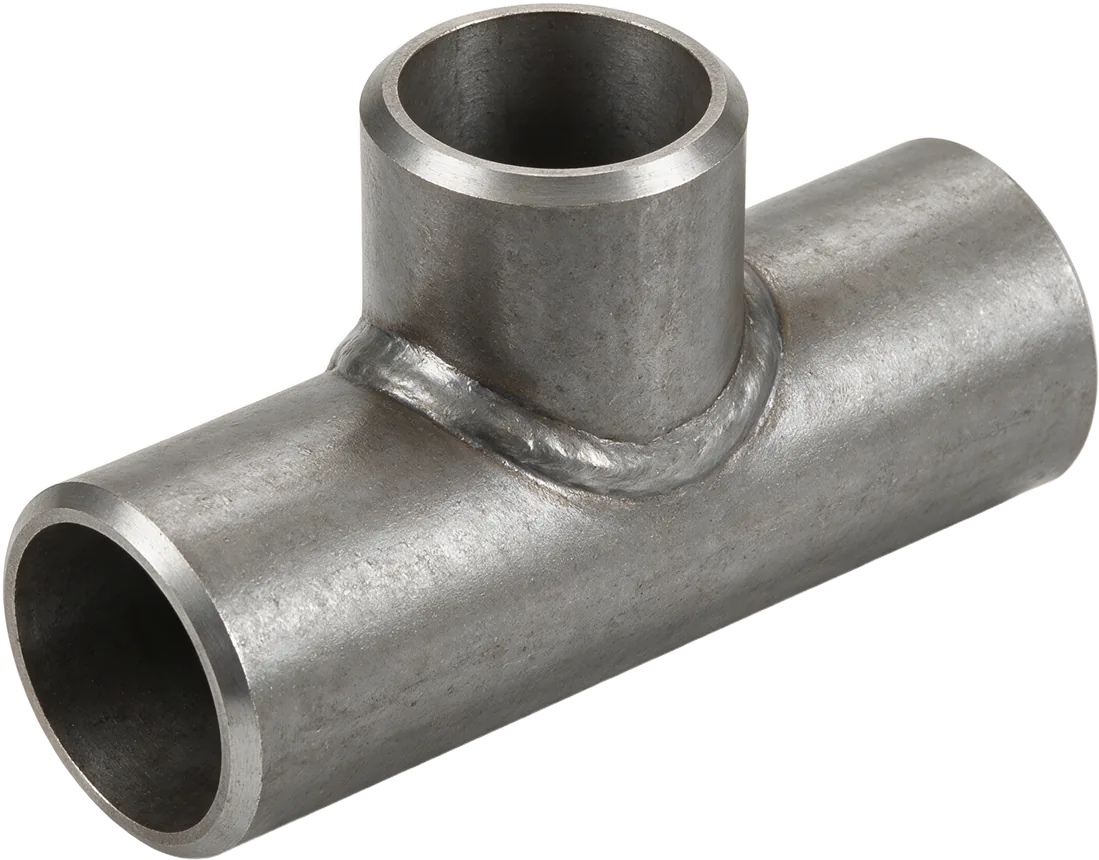
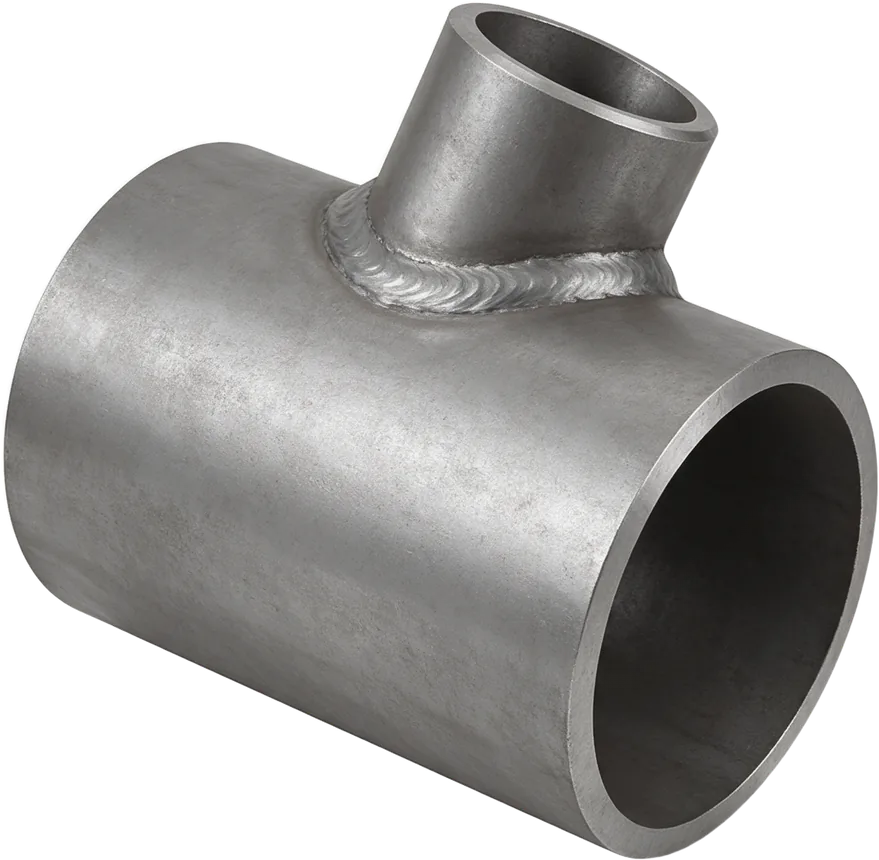
Мусорные DN в СДТ и пересъёмка сварного переходного тройника
DN. В условный проход у СДТ попадали наружный диаметр («DN 137» у днища
D137), номер исполнения («DN 06») и склейки («DN 1030»). Где известен
наружный диаметр — Ду восстановлен по сортаменту, иначе поле убрано:
пустое место честнее выдуманного прохода. Заодно вычищены следы в
описаниях. Крепёж не тронут — там в dn лежит диаметр резьбы, и это норма.

Правило чинит и формально допустимые, но неверные значения: у отвода
159×6 стоял DN 125, хотя 159 — это Ду150. Такое ловится только сверкой с
сортаментом, проверкой «есть в ряду» — нет. Для переходных изделий сверка
не применяется: там dn относится к корпусу, а outer_diameter может
описывать трубу штуцера.

Тройник. Прежний кадр читался как мелкая точёная деталь. ОСТ 34 10.764-97
идёт на Ду150…1600: корпус короткий и массивный, штуцер около трети
диаметра, приварен угловым швом. Переснято по образцу ОТК.

diff --git a/scripts/otk-fix/fix.php b/scripts/otk-fix/fix.php
@@ -267,6 +267,110 @@ foreach ( $ids as $pid ) {
 		$needs[] = [ $pid, $newslug, $norm, $od, 'стенка снята' ];
 	}
 
+	/* --- 5. мусор в условном проходе ---
+	 * В dn/dn_branch/dy/dy1 у СДТ попадали наружный диаметр («DN 137» у днища
+	 * D137), обрывки обозначения («DN 09», «DN 03») и склейки («DN 1030»).
+	 * Где известен наружный диаметр — восстанавливаем Ду по сортаменту, иначе
+	 * поле убираем: пустое место честнее выдуманного прохода.
+	 *
+	 * Крепёж не трогаем: там в dn лежит диаметр резьбы, и это не ошибка.
+	 */
+	$is_fastener = isset( $dims['thread_size'] ) || isset( $dims['washer_type'] )
+		|| ( function_exists( 'promen_product_is_fastener' ) && promen_product_is_fastener( $pid ) );
+	if ( ! $is_fastener ) {
+		static $DN_ROW = [
+			6, 8, 10, 15, 20, 25, 32, 40, 50, 65, 80, 100, 125, 150, 175, 200, 250,
+			300, 350, 400, 450, 500, 600, 700, 800, 900, 1000, 1100, 1200, 1400,
+			1600, 1800, 2000,
+		];
+		// Наружный диаметр -> условный проход. Два ряда: ГОСТ 8732/10704 и ISO
+		// (ГОСТ 17375/17376 — 21,3 / 26,9 / 33,7 …).
+		static $DN2DU = [
+			'10' => 6, '14' => 10, '18' => 15, '25' => 20, '32' => 25, '38' => 32,
+			'45' => 40, '57' => 50, '76' => 65, '89' => 80, '108' => 100, '133' => 125,
+			'159' => 150, '219' => 200, '273' => 250, '325' => 300, '377' => 350,
+			'426' => 400, '530' => 500, '630' => 600, '720' => 700, '820' => 800,
+			'920' => 900, '1020' => 1000, '1220' => 1200, '1420' => 1400, '1620' => 1600,
+			'21.3' => 15, '26.9' => 20, '33.7' => 25, '42.4' => 32, '48.3' => 40,
+			'60.3' => 50, '88.9' => 80, '114.3' => 100, '168.3' => 150, '219.1' => 200,
+			'273.1' => 250, '323.9' => 300, '355.6' => 350, '406.4' => 400, '508' => 500,
+		];
+		/*
+		 * У детали с одним проходом (нет второго торца) условный проход
+		 * однозначно следует из наружного диаметра. Тогда сортамент — источник
+		 * истины, даже если в поле лежит формально допустимое число: «Тройник
+		 * 219х9 Dy06» и «Фланец ФП DN06» получили в DN номер исполнения, а 6 —
+		 * настоящий проход из ряда, и проверкой «есть в ряду» такое не поймать.
+		 * У переходных изделий так делать нельзя: там dn относится к корпусу, а
+		 * outer_diameter может описывать трубу штуцера.
+		 */
+		$single_bore = ! isset( $dims['outer_d_branch'] ) && ! isset( $dims['dn_branch'] )
+			&& ! isset( $dims['dy1'] );
+
+		$fix_dn = static function ( $val, $od ) use ( $DN_ROW, $DN2DU, $single_bore ) {
+			$v = trim( (string) $val );
+			if ( '' === $v ) {
+				return null;                       // нечего чинить
+			}
+			$k0 = rtrim( rtrim( str_replace( ',', '.', trim( (string) $od ) ), '0' ), '.' );
+			if ( $single_bore && '' !== $k0 && isset( $DN2DU[ $k0 ] ) ) {
+				return (string) $DN2DU[ $k0 ];     // проход выводится из диаметра
+			}
+			$n = (float) str_replace( ',', '.', $v );
+			if ( in_array( (int) round( $n ), $DN_ROW, true ) && abs( $n - round( $n ) ) < 1e-6 ) {
+				return ltrim( $v, '0' ) !== '' ? (string) (int) round( $n ) : $v;
+			}
+			$k = rtrim( rtrim( str_replace( ',', '.', trim( (string) $od ) ), '0' ), '.' );
+			if ( '' !== $k && isset( $DN2DU[ $k ] ) ) {
+				return (string) $DN2DU[ $k ];      // восстановили по сортаменту
+			}
+			return false;                          // убрать
+		};
+
+		foreach ( [ [ 'dn', 'outer_diameter' ], [ 'dy', 'outer_diameter' ],
+			[ 'dn_branch', 'outer_d_branch' ], [ 'dy1', 'outer_d_branch' ] ] as $pair ) {
+			if ( ! isset( $dims[ $pair[0] ] ) ) {
+				continue;
+			}
+			$res = $fix_dn( $dims[ $pair[0] ], $dims[ $pair[1] ] ?? '' );
+			if ( null === $res || $res === $dims[ $pair[0] ] ) {
+				continue;
+			}
+			if ( false === $res ) {
+				unset( $dims[ $pair[0] ] );
+				$changed[] = 'убран мусорный ' . $pair[0];
+			} else {
+				$dims[ $pair[0] ] = $res;
+				$changed[] = 'восстановлен ' . $pair[0];
+			}
+		}
+		/*
+		 * Те же числа лежат в описании текстом. Правим отдельно от dims: у части
+		 * карточек поле уже вычищено прошлым проходом, а текст остался — если
+		 * ориентироваться только на изменение dims, такие описания не тронутся.
+		 * Точку удаляем вместе с числом, иначе остаётся висячее « . ».
+		 */
+		$before = $content;
+		$dn_now = trim( (string) ( $dims['dn'] ?? '' ) );
+		$dn2_now = trim( (string) ( $dims['dn_branch'] ?? '' ) );
+		$content = preg_replace(
+			'~\s*\bDN (\d+(?:[.,]\d+)?)\.?~u',
+			'' !== $dn_now ? ' DN ' . $dn_now . '.' : '',
+			$content, 1 );
+		$content = preg_replace(
+			'~\s*\bDN1 (\d+(?:[.,]\d+)?)\.?~u',
+			'' !== $dn2_now ? ' DN1 ' . $dn2_now . '.' : '',
+			$content, 1 );
+		$content = preg_replace( '~\s+([.,])~u', '$1', $content );
+		// Удвоенная точка — след предыдущего прохода, где число убрали, а точку
+		// от него оставили: «Исполнение 10. . Наружный» -> «10..».
+		$content = preg_replace( '~\.{2,}~u', '.', $content );
+		$content = trim( preg_replace( '~\s{2,}~u', ' ', $content ) );
+		if ( $content !== $before ) {
+			$changed[] = 'DN в описании';
+		}
+	}
+
 	if ( ! $changed ) {
 		continue;
 	}

diff --git a/wp-content/themes/promen/assets/img/products/types/README.md b/wp-content/themes/promen/assets/img/products/types/README.md
@@ -122,3 +122,16 @@
 **Равнопроходного тройника среди кадров нет** — ОСТ 34 10.762/763-97,
 ОСТ 34-10-510-90, ОСТ 34-42-675-84 и ОСТ 24.125.17-89 по-прежнему берут общий
 `../troyniki.webp`.
+
+## Пересъёмка тройника 10.09.2026
+
+`troyniki-ts-svarnoy-perehodnyy.webp` заменён. Прежний кадр читался как мелкая
+точёная деталь: длинный тонкий корпус, штуцер вполовину его диаметра, светлые
+обточенные торцы. ОТК прислал образец реального изделия — ОСТ 34 10.764-97 идёт
+на Ду150…1600, и там корпус короткий и массивный, длиной примерно в свой
+диаметр, а штуцер маленький, около трети, приварен угловым швом по кругу.
+Новый кадр снят по этому образцу.
+
+Тон оставлен серии — светлая сталь mill-finish. На фото ОТК деталь тёмная,
+в окалине; если решим переводить весь каталог на такой вид, это отдельная
+пересъёмка всех 24 кадров, вразнобой они смотреться не будут.
